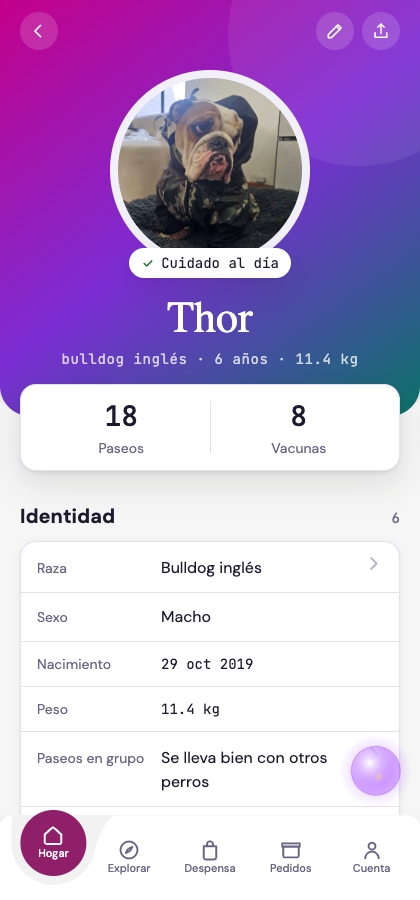
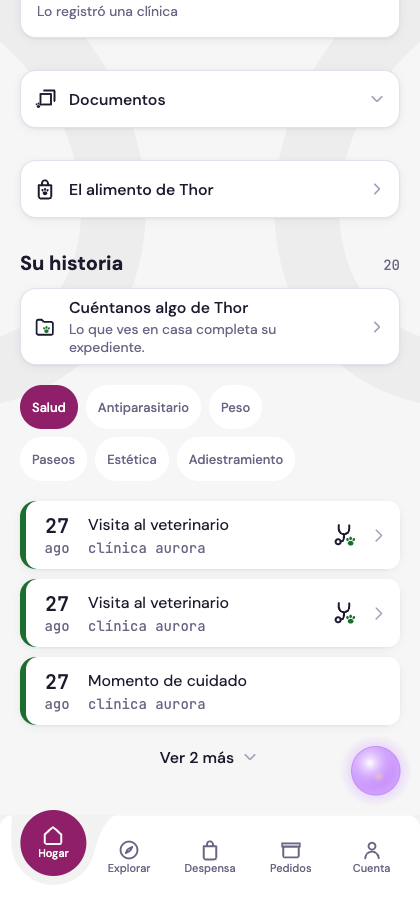
S113-C · cierre del 1.1: los nueve filtros, y la plaga que sí llegó a la tira
Mergeados A 67661707 y B 667712a6 (la punta; la mesa dijo 2ddc0355 y B avanzó
en el medio).

⑥ LA LINEA COMENTADA EMPEZO A MANDAR. Estuvo escrita una parte entera con su
medicion al lado. Vacio NO se manda: el wrapper rebota plagas_vacio porque {}
diria «no trataba ninguna», que es distinto de «no se declaro».

⑦ EL MAPEO SE MIDIO, y por eso no tiene default
cat_tipos_evento: 64 codigos activos · con filas en eventos_mascota: 20 · y el
timeline DESCARTA cita_servicio en su propio lector (timeline.ts:190, 376 filas
que nunca llegan) ⇒ el universo real son 19.
Un default mandaria lo desconocido a algun cajon —salud es el tentador— y un
evento en la casilla equivocada no se ve como un error: se ve como un dato. Lo
no clasificado devuelve null: la fila SE DIBUJA IGUAL y no responde a ningun
chip. foto_guarderia e incidente_hotel → guarderia; bitacora_familia →
recuerdos, por decision de la mesa.

⑧ ☠ Y CON EL VOCABULARIO NUEVO MURIO EL VIEJO: FAMILIAS y FiltroHistoria
quedaron sin un solo consumidor y se retiran EN EL MISMO ACTO — una tabla que
ya no clasifica nada es una lista esperando que alguien la vuelva a creer. El
canto de la fila no salia de ahi y sigue vivo (FAMILIA_DE_TIPO).

⑨ MEDIDO (guillo381+8)
  la tira: «pulgas · 01 oct 2026» | «Quintuple · 05 ene 2027» ← LA PLAGA LLEGO
  Thor: filtros Salud · Antiparasitario · Peso · Paseos · Estetica ·
        Adiestramiento; al tocar «Salud» 6 filas → 5 ✓ filtra
[…]

diff --git a/apps/cliente/src/app/(tabs)/hogar/mascota/[mascotaId].tsx b/apps/cliente/src/app/(tabs)/hogar/mascota/[mascotaId].tsx
@@ -65,6 +65,8 @@ import {
   type LineaDeVidaEstadoPie,
   FranjaSeguridad,
   CeldasHoy,
+  FiltrosLineaDeVida,
+  type TipoLineaDeVida,
   PiezaMedicacionActiva,
   ordenarSeguridad,
   tendenciaPeso,
@@ -110,6 +112,13 @@ import { vozEdad, vozNacimiento, vozOrigen } from '@/lib/voz-mascota';
 import { contarPendientesDe } from '@/lib/pendientes';
 import { itemsDeSeguridad } from '@/lib/perfil/seguridad';
 import { coberturaDePlagas, medicacionDeLaCelda, proximaDesparasitacion } from '@/lib/perfil/hoy';
+import { tipoDeLineaDeVida } from '@/lib/perfil/tipo-linea-vida';
+
+/** El orden de los nueve, que es el que B reparte en filas. */
+const ORDEN_TIPOS: readonly TipoLineaDeVida[] = [
+  'salud', 'vacunas', 'antiparasitario', 'peso',
+  'paseos', 'estetica', 'adiestramiento', 'guarderia', 'recuerdos',
+];
 import { composicionDe } from '@/lib/composicion-sujeto';
 import { HabitantesAcuarioHoja } from '@/components/habitantes-acuario-hoja';
 import { caraDeMascota, urlDeRutaGaleria } from '@/lib/cara-mascota';
@@ -128,7 +137,6 @@ const SERIF_LOCAL = Platform.select({ ios: 'Georgia', default: 'serif' });
 /** El eje del filtro de la historia DENTRO de la ficha: SOLO servicio
  *  (el tramo temporal vive en la pantalla completa — contrato de la
  *  lámina 02, contexto 2). */
-type FiltroHistoria = 'todo' | 'salud' | 'paseos' | 'estetica' | 'adiestramiento' | 'bitacora';
 
 /** r10-5 · el eje TEMPORAL de Vitales — el mismo que ya usa Su
  *  historia, con FiltroPills. NOTA DE API declarada: `calcularVitales`
@@ -452,7 +460,11 @@ export default function PerfilDeMascota() {
   const [razaHoja, setRazaHoja] = useState(false);
   /** P3: la raza recién guardada, para re-pintar sin re-cargar el perfil. */
   const [razaLocal, setRazaLocal] = useState<string | null | undefined>(undefined);
-  const [filtroHistoria, setFiltroHistoria] = useState<FiltroHistoria>('todo');
+  /* 🔴 **DE UNO A VARIOS** (1.1 cierre · ②). Era `FiltroHistoria` con un solo
+     activo y el vocabulario de OFICIOS; pasa a los NUEVE tipos de B, que se
+     pueden combinar. **Vacío = todos**, que es la regla de la pieza: no hay un
+     chip «Todo» que compita con los otros nueve. */
+  const [tiposElegidos, setTiposElegidos] = useState<readonly TipoLineaDeVida[]>([]);
   const [ventana, setVentana] = useState<VentanaVitales>('semana');
   // los paseos crudos: la ventana se computa acá (ver nota de API)
   const [paseosTrack, setPaseosTrack] = useState<PaseoConTrack[] | null>(null);
@@ -1769,20 +1781,24 @@ export default function PerfilDeMascota() {
               // el chip de un servicio SOLO se dibuja si existe en el
               // expediente (la lámina: SV_PRES) — Ley 23: la puerta no
               // ofrece lo que no tiene.
-              const FAMILIAS: { codigo: FiltroHistoria; etiqueta: string; icono: IconoNombre; capa: 'identidad' | 'cuidado' }[] = [
-                { codigo: 'salud', etiqueta: t('hogar.filtroSalud'), icono: 'veterinaria', capa: 'identidad' },
-                { codigo: 'paseos', etiqueta: t('hogar.filtroPaseos'), icono: 'paseo', capa: 'cuidado' },
-                { codigo: 'estetica', etiqueta: t('hogar.filtroEstetica'), icono: 'grooming', capa: 'cuidado' },
-                { codigo: 'adiestramiento', etiqueta: t('hogar.filtroAdiestramiento'), icono: 'training', capa: 'cuidado' },
-                // P4 · LA BITÁCORA ENTRA POR SU HISTORIA. Su chip vive en la
-                // MISMA fila que los oficios y se dibuja con la misma regla
-                // (Ley 23: la puerta no ofrece lo que no tiene) — solo si hay
-                // entradas. Su capa es identidad y no cuidado: lo que la
-                // familia observa es del EXPEDIENTE, no de un servicio.
-                { codigo: 'bitacora', etiqueta: t('hogar.filtroBitacora'), icono: 'caso', capa: 'identidad' },
-              ];
-              const presentes = FAMILIAS.filter((f) => items.some((it) => FAMILIA_DE_TIPO[it.tipo] === f.codigo));
-              const filtrados = filtroHistoria === 'todo' ? items : items.filter((it) => FAMILIA_DE_TIPO[it.tipo] === filtroHistoria);
+              /* ☠ Acá vivía `FAMILIAS`, la tabla de los cinco chips por OFICIO.
+                 Murió con el vocabulario nuevo: sus cinco códigos no existen en
+                 `TipoLineaDeVida` y su único consumidor era `presentes`, que se
+                 fue con ella. *Una tabla que ya no clasifica nada es una lista
+                 esperando que alguien la vuelva a creer* (Ley 37). El canto de
+                 la fila NO sale de acá y sigue vivo: lo da `FAMILIA_DE_TIPO`. */
+              /* Los tipos que ESTA mascota tiene, en el orden de los nueve: la
+                 puerta no ofrece lo que no tiene (Ley 23). */
+              const presentesTipo = ORDEN_TIPOS.filter((tp) =>
+                items.some((it) => tipoDeLineaDeVida(it.tipo) === tp),
+              );
+              const filtrados =
+                tiposElegidos.length === 0
+                  ? items
+                  : items.filter((it) => {
+                      const tp = tipoDeLineaDeVida(it.tipo);
+                      return tp !== null && tiposElegidos.includes(tp);
+                    });
               const visibles = historiaRevelada ? filtrados : filtrados.slice(0, 3);
               return (
                 <>
@@ -1835,15 +1851,19 @@ export default function PerfilDeMascota() {
                     </Tarjeta>
                   </View>
                   ) : null}
-                  {presentes.length > 1 ? (
-                    <FiltroPills
-                      activo={filtroHistoria}
-                      onCambio={(c) => setFiltroHistoria(c)}
-                      opciones={[
-                        { codigo: 'todo' as FiltroHistoria, etiqueta: t('hogar.filtroTodo'), icono: 'huella' as const, capa: null },
-                        ...presentes.map((f) => ({ codigo: f.codigo, etiqueta: f.etiqueta, icono: f.icono, capa: f.capa })),
-                      ]}
-                    />
+                  {presentesTipo.length > 1 ? (
+                    <View style={{ paddingHorizontal: spacing[5], marginBottom: spacing[2] }}>
+                      <FiltrosLineaDeVida
+                        tipos={presentesTipo}
+                        elegidos={tiposElegidos}
+                        voz={(tp) => t(`perfil.lv_${tp}` as 'perfil.lv_salud')}
+                        onAlternar={(tp) =>
+                          setTiposElegidos((prev) =>
+                            prev.includes(tp) ? prev.filter((x) => x !== tp) : [...prev, tp],
+                          )
+                        }
+                      />
+                    </View>
                   ) : null}
                   <View style={{ paddingHorizontal: spacing[5], gap: spacing[2.5], marginTop: spacing[3] }}>
                     {filtrados.length === 0 ? (

diff --git a/apps/cliente/src/lib/perfil/tipo-linea-vida.ts b/apps/cliente/src/lib/perfil/tipo-linea-vida.ts
@@ -1,0 +1,108 @@
+/**
+ * ⭐ **DE QUÉ HABLA CADA FILA DE LA VIDA** (S113-C · 1.1 cierre · ②).
+ *
+ * Traduce el código de evento al vocabulario de los nueve filtros de B. Vive
+ * acá y no en la pantalla porque **es una clasificación, no un render**.
+ *
+ * ── DE DÓNDE SALIÓ, Y POR QUÉ NO HAY `default` ─────────────────────────────
+ * El mapa se armó **midiendo**, no listando lo que parecía:
+ *   · `cat_tipos_evento` tiene **64 códigos activos** (5-sep);
+ *   · de ésos, `eventos_mascota` sólo tiene **20 con filas**;
+ *   · y el timeline **descarta `cita_servicio`** en su propio lector
+ *     (`timeline.ts:190`, `.neq('tipo','cita_servicio')` — 376 filas que nunca
+ *     llegan) ⇒ **el universo real de la línea de vida son 19**.
+ *
+ * 🔴 **Sin `default`, y eso es una decisión con consecuencia.** Un `default`
+ * mandaría lo desconocido a algún cajón —`salud` es el candidato tentador— y
+ * *un evento que cae en la casilla equivocada no se ve como un error: se ve
+ * como un dato*. Acá lo no clasificado devuelve `null`: **la fila se sigue
+ * dibujando** (no se pierde nada) y simplemente no responde a ningún chip, que
+ * es exactamente lo que hoy pasa con los tipos fuera del mapa viejo.
+ *
+ * ⚠ Lo que este módulo NO garantiza: que el mapa siga completo mañana. Un
+ * código nuevo en el motor entra sin avisar — por eso `CODIGOS_MEDIDOS` queda
+ * escrito abajo, para que el día que alguien lo re-mida sepa contra qué se
+ * comparó.
+ */
+import type { TipoLineaDeVida } from '@epetplace/ui';
+
+/** Los 19 que el timeline puede traer hoy, medidos en `eventos_mascota`
+ *  (5-sep, con su conteo al lado para que el próximo censo compare). */
+export const CODIGOS_MEDIDOS = [
+  'hito_narrativo', // 73
+  'vacuna_aplicada', // 39
+  'atencion_paseo_registrada', // 29
+  'foto_guarderia', // 15
+  'peso_medicion', // 9
+  'atencion_grooming_registrada', // 7
+  'historia_clinica_registrada', // 7
+  'medicacion_prescrita', // 5
+  'alta_asistida_pendiente_creada', // 4
+  'bitacora_familia', // 4
+  'atencion_adiestramiento_registrada', // 3
+  'caso_clinico_abierto', // 3
+  'fin_vida', // 2
+  'producto_asignacion', // 2
+  'examen_diagnostico', // 1
+  'alta_asistida_completada_por_cliente', // 1
+  'desparasitacion_aplicada', // 1
+  'alergia_diagnosticada', // 1
+  'transferencia_familia', // 1
+] as const;
+
+const MAPA: Readonly<Record<string, TipoLineaDeVida>> = {
+  /* SALUD — lo clínico que no tiene chip propio. `medicacion_prescrita` va acá
+     y no a un chip suyo: la medicación se lee en su sección del perfil, y un
+     décimo filtro para cinco filas no ayuda a nadie. */
+  historia_clinica_registrada: 'salud',
+  caso_clinico_abierto: 'salud',
+  examen_diagnostico: 'salud',
+  medicacion_prescrita: 'salud',
+  alergia_diagnosticada: 'salud',
+
+  vacuna_aplicada: 'vacunas',
+  desparasitacion_aplicada: 'antiparasitario',
+  peso_medicion: 'peso',
+
+  atencion_paseo_registrada: 'paseos',
+  atencion_grooming_registrada: 'estetica',
+  atencion_adiestramiento_registrada: 'adiestramiento',
+
+  /* GUARDERÍA — hoy su única fuente en la línea de vida es la foto del día.
+     ⚠ **Las estadías no tienen código propio en `cat_tipos_evento`**: lo más
+     cercano es `incidente_hotel`, que es un incidente y no una estadía. Se
+     mapea igual porque **pasó en la guardería**, y mandarlo a «salud» sería
+     esconderlo del único chip donde alguien lo buscaría. */
+  foto_guarderia: 'guarderia',
+  incidente_hotel: 'guarderia',
+  incidente_paseo: 'paseos',
+
+  /* RECUERDOS — lo que la familia cuenta y lo que la vida marca.
+     `bitacora_familia` cae acá **por decisión de la mesa**: tenía chip propio
+     («bitácora») y el vocabulario nuevo no lo tiene. `hito_narrativo` y
+     `fin_vida` lo acompañan: son la historia, no un servicio. */
+  bitacora_familia: 'recuerdos',
+  hito_narrativo: 'recuerdos',
+  fin_vida: 'recuerdos',
+  inicio_vida: 'recuerdos',
+  nota_dueno: 'recuerdos',
+  cambio_nombre: 'recuerdos',
+  chip_implantado: 'salud',
+  esterilizacion: 'salud',
+  cirugia_procedimiento: 'salud',
+  medicacion_administrada: 'salud',
+  condicion_cronica_diagnosticada: 'salud',
+  observacion_comportamiento: 'recuerdos',
+  cambio_comida: 'recuerdos',
+};
+
+/**
+ * `null` = **no clasificado**, y la fila se dibuja igual. *Lo desconocido no se
+ * esconde en una casilla ajena ni se descarta: se muestra sin chip.*
+ */
+export function tipoDeLineaDeVida(codigo: string): TipoLineaDeVida | null {
+  return MAPA[codigo] ?? null;
+}
+
+/** Los que el mapa cubre — para el censo del gate y para poder comparar. */
+export const CODIGOS_MAPEADOS = Object.keys(MAPA);

diff --git a/apps/cliente/src/app/antiparasitario.tsx b/apps/cliente/src/app/antiparasitario.tsx
@@ -49,7 +49,6 @@ import {
   Encabezado,
   EvitaTeclado,
   SelectorOpcion,
-  type Plaga,
   Texto,
   radius,
   spacing,
@@ -60,6 +59,7 @@ import {
 import {
   listarProductosDespensa,
   registrarDesparasitacion,
+  type PlagaTratada,
   type TipoDesparasitacion,
 } from '@epetplace/api';
 
@@ -87,7 +87,7 @@ export default function RegistrarAntiparasitario() {
   const [fecha, setFecha] = useState<CampoFechaValor>({ fecha: hoyLocal(), precision: 'exacta' });
   const [proxima, setProxima] = useState<CampoFechaValor | undefined>(undefined);
   /** Contra qué protege. Varias a la vez; vacío = no se declaró. */
-  const [plagas, setPlagas] = useState<readonly Plaga[]>([]);
+  const [plagas, setPlagas] = useState<readonly PlagaTratada[]>([]);
   const [guardando, setGuardando] = useState(false);
   const [error, setError] = useState<string | undefined>(undefined);
   /** `null` = todavía no contestó la vitrina. `[]` = contestó y no hay.
@@ -144,16 +144,13 @@ export default function RegistrarAntiparasitario() {
       tipo,
       fecha_aplicada: fecha.fecha,
       ...(proxima !== undefined ? { fecha_proxima: proxima.fecha } : null),
-      /* 🔴 **VIAJA CUANDO EL WRAPPER LO ACEPTE.** Hoy `registrarDesparasitacion`
-         (`salud.ts:53`) toma producto, tipo, fechas y notas — **no `plagas`**—,
-         y medí la consecuencia: sembré una fila por esta misma puerta y quedó
-         con `plagas: null`, así que la señal del Hogar —que se arma abriendo
-         ese array— no puede aportar ninguna. La pantalla ya las junta; la
-         línea de abajo se descomenta el día que A abra la puerta, y con eso la
-         tira muestra la plaga sin tocar nada más.
-         *Se deja escrito acá y no en una nota aparte porque el que abra el
-         wrapper va a estar leyendo este archivo.* */
-      // ...(plagas.length > 0 ? { plagas: [...plagas] } : null),
+      /* ✅ **YA VIAJAN** (A, `67661707`). La línea estuvo escrita y comentada
+         una parte entera, con la medición al lado: yo había sembrado una fila
+         por esta misma puerta y quedaba con `plagas: null`.
+         🔴 **Vacío NO se manda**: el wrapper rebota `plagas_vacio` porque `{}`
+         diría «no trataba ninguna», que es distinto de «no se declaró». Sin
+         selección, la fila queda como antes y el motor lo sabe representar. */
+      ...(plagas.length > 0 ? { plagas: [...plagas] } : null),
     });
     setGuardando(false);
     if (!r.ok) {
@@ -257,7 +254,7 @@ export default function RegistrarAntiparasitario() {
             seleccionadas={[...plagas]}
             onSelect={(codigo) =>
               setPlagas((prev) =>
-                prev.includes(codigo as Plaga) ? prev.filter((x) => x !== codigo) : [...prev, codigo as Plaga],
+                prev.includes(codigo as PlagaTratada) ? prev.filter((x) => x !== codigo) : [...prev, codigo as PlagaTratada],
               )
             }
           />

diff --git a/apps/cliente/src/i18n/es.ts b/apps/cliente/src/i18n/es.ts
@@ -535,6 +535,15 @@ export const clienteEs = {
     vozQuieto: 'Su expediente quedó quieto — ¿hay novedades?',
   },
   perfil: {
+    lv_salud: 'Salud',
+    lv_vacunas: 'Vacunas',
+    lv_antiparasitario: 'Antiparasitario',
+    lv_peso: 'Peso',
+    lv_paseos: 'Paseos',
+    lv_estetica: 'Estética',
+    lv_adiestramiento: 'Adiestramiento',
+    lv_guarderia: 'Guardería',
+    lv_recuerdos: 'Recuerdos',
     antiproxima: 'La próxima toca el {{fecha}}',
     antiSinRegistro: 'Todavía no hay desparasitaciones registradas.',
     antiRegistrar: 'Registrar una',

diff --git a/apps/cliente/src/i18n/en.ts b/apps/cliente/src/i18n/en.ts
@@ -383,6 +383,15 @@ export const clienteEn = {
     vozQuieto: 'The record has been quiet — anything new?',
   },
   perfil: {
+    lv_salud: 'Health',
+    lv_vacunas: 'Vaccines',
+    lv_antiparasitario: 'Parasites',
+    lv_peso: 'Weight',
+    lv_paseos: 'Walks',
+    lv_estetica: 'Grooming',
+    lv_adiestramiento: 'Training',
+    lv_guarderia: 'Daycare',
+    lv_recuerdos: 'Memories',
     antiproxima: 'Next one due {{fecha}}',
     antiSinRegistro: 'No dewormings logged yet.',
     antiRegistrar: 'Log one',

diff --git a/docs/loop/S113-C-1.1b.md b/docs/loop/S113-C-1.1b.md
@@ -281,3 +281,56 @@ confirmación — si es un archivo concreto, que me lo nombren y lo corro.*
 **A B:** ampliar `TipoLineaDeVida` con `paseos · estetica · adiestramiento`
 (el vocabulario ya lo decidió la mesa). **A A:** `plagas` en
 `registrarDesparasitacion` — la línea que las manda ya está escrita.
+
+---
+
+# Cierre del 1.1 · los nueve filtros y la plaga que sí llegó
+
+Mergeados **A `67661707`** y **B `667712a6`** (la punta; la mesa había dicho
+`2ddc0355` y B avanzó en el medio).
+
+## ⑥ LA LÍNEA COMENTADA EMPEZÓ A MANDAR
+
+Estuvo escrita y comentada **una parte entera**, con su medición al lado. Hoy
+manda. 🔴 **Vacío no se manda**: el wrapper rebota `plagas_vacio` porque `{}`
+diría *«no trataba ninguna»*, que es distinto de *«no se declaró»*.
+
+## ⑦ EL MAPEO SE MIDIÓ, Y ES POR ESO QUE NO TIENE `default`
+
+- `cat_tipos_evento`: **64 códigos activos**;
+- con filas en `eventos_mascota`: **20**;
+- y el timeline **descarta `cita_servicio`** en su propio lector
+  (`timeline.ts:190` — 376 filas que nunca llegan) ⇒ **el universo real son 19**.
+
+*Un `default` mandaría lo desconocido a algún cajón —`salud` es el tentador— y
+un evento en la casilla equivocada no se ve como un error: se ve como un dato.*
+Lo no clasificado devuelve `null`: **la fila se dibuja igual** y no responde a
+ningún chip. `foto_guarderia` e `incidente_hotel` → guardería; `bitacora_familia`
+→ recuerdos, por decisión de la mesa.
+
+## ⑧ ☠ Y CON EL VOCABULARIO NUEVO MURIÓ EL VIEJO
+
+`FAMILIAS` (los cinco chips por oficio) y su tipo `FiltroHistoria` quedaron sin
+un solo consumidor —`presentes` se fue con ellos— y **se retiran en el mismo
+acto**: *una tabla que ya no clasifica nada es una lista esperando que alguien
+la vuelva a creer.* El canto de la fila **no salía de ahí** y sigue vivo
+(`FAMILIA_DE_TIPO`).
+
+## ⑨ MEDIDO (cuenta `guillo381+8@gmail.com`)
+
+```
+la tira    «pulgas · 01 oct 2026»  |  «Quíntuple · 05 ene 2027»   ← la plaga LLEGÓ
+Thor       filtros: Salud · Antiparasitario · Peso · Paseos · Estética · Adiestramiento
+           al tocar «Salud»: 6 filas → 5  ✓ filtra
+           franja SÍ · sin fila de ausencias
+Zeus       franja no · ausencias «vacunas · desparasitación · alergias»
+Sombra     verbos que le piden: NINGUNO
+0 errores de página
+```
+
+⚠ **Thor muestra seis chips, no nueve, y está bien**: la puerta no ofrece lo
+que no tiene. *Pero el conjunto sale de los ítems CARGADOS, no de todo el
+historial* — con más páginas pueden aparecer más chips. Se declara porque el
+verde de arriba no dice «éstos son todos los que tiene».
+
+**Gates**: todos verdes · `diseno` 61 reglas · **4 tsc en 0**.
